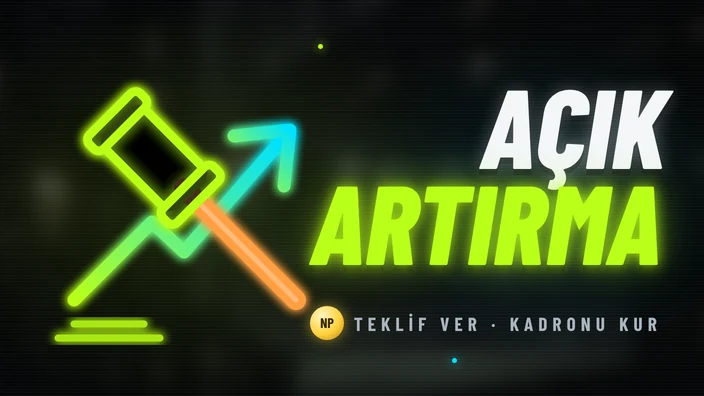
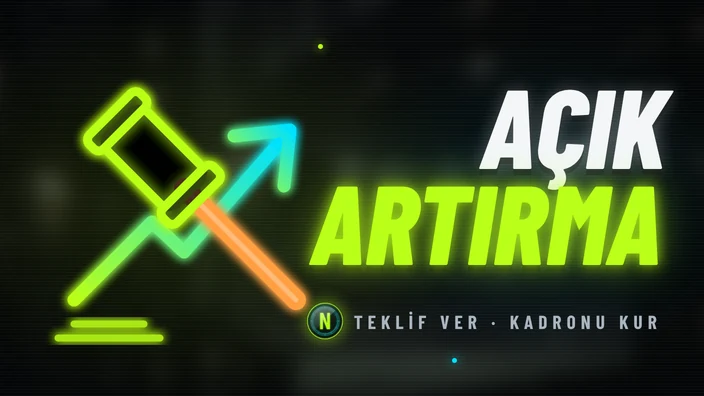
Açık Artırma: NEON para coin (user art) next to amounts, in the emblem and the menu card (#111)
Claude-Session: https://claude.ai/code/session_01RKhLQdCH5ubMWetL4R95SZ

Changed region(s): [[0.4062, 0.7576, 0.6875, 0.8788], [0.7188, 0.7879, 0.9375, 0.8485]]

diff --git a/side-games/acik-artirma/index.html b/side-games/acik-artirma/index.html
@@ -5,13 +5,13 @@
 <meta name="theme-color" content="#050708"><title>Açık Artırma — NEON XI</title>
 <link rel="stylesheet" href="../neon-arcade-ui-v1.css?v=20261120-genel-ux1">
 <link rel="stylesheet" href="../sidegame-skin-v2.css?v=20261120-genel-ux1">
-<link rel="stylesheet" href="./acik-artirma.css?v=20261121-v4">
+<link rel="stylesheet" href="./acik-artirma.css?v=20261121-v5">
 </head>
 <body class="aa">
 <script src="../sidegame-loader-v1.js?v=20261121-aa2" data-title="AÇIK ARTIRMA"></script>
 <main class="aa-app" id="app" aria-live="polite"></main>
 <script src="../career-twin/firebase-peer-shim-v1.js?v=20261121-aa-online" data-game-type="auction" data-prefix="neonxi-auction-" data-room-prefix="AA-"></script>
-<script type="module" src="./aa-ui.mjs?v=20261121-v4"></script>
+<script type="module" src="./aa-ui.mjs?v=20261121-v5"></script>
 <script type="module" src="../../social/party-match-broker-v1.js?v=20261121-aa-online"></script>
 <script type="module" src="../../social/neon-social.js?v=20261121-aa-online"></script>
 <script type="module" src="../../social/party-ready-notify-v1.js?v=20261121-aa-online"></script>

diff --git a/side-games/acik-artirma/acik-artirma.css b/side-games/acik-artirma/acik-artirma.css
@@ -34,6 +34,11 @@ body.sg-auction .sgm-hero h1 span{display:block}
 .aa-lobby-list li:not(.in) i{animation:aaPulse .8s ease-in-out infinite alternate}
 .aa-lobby-list small{margin-left:auto;color:var(--aa-lime);font:800 10px/1 var(--aa-d);letter-spacing:.2em}
 
+/* NEON para coin next to amounts */
+.aa-np{display:inline-block;width:1.05em;height:1.05em;margin-left:.18em;vertical-align:-.16em;filter:drop-shadow(0 0 4px rgba(186,255,24,.45))}
+.aa-money .aa-np{width:.8em;height:.8em;vertical-align:-.06em}
+.aa-stamp .aa-np{width:.9em;height:.9em;vertical-align:-.1em}
+
 /* ── header ── */
 .aa-top{display:grid;grid-template-columns:44px 1fr 44px;align-items:center;gap:10px;min-height:48px;margin-bottom:10px}
 .aa-back{display:grid;place-items:center;width:42px;height:42px;border-radius:12px;border:1px solid rgba(255,255,255,.14);background:rgba(8,12,16,.72);color:var(--aa-ink);font:400 26px/1 var(--aa-b);text-decoration:none}
